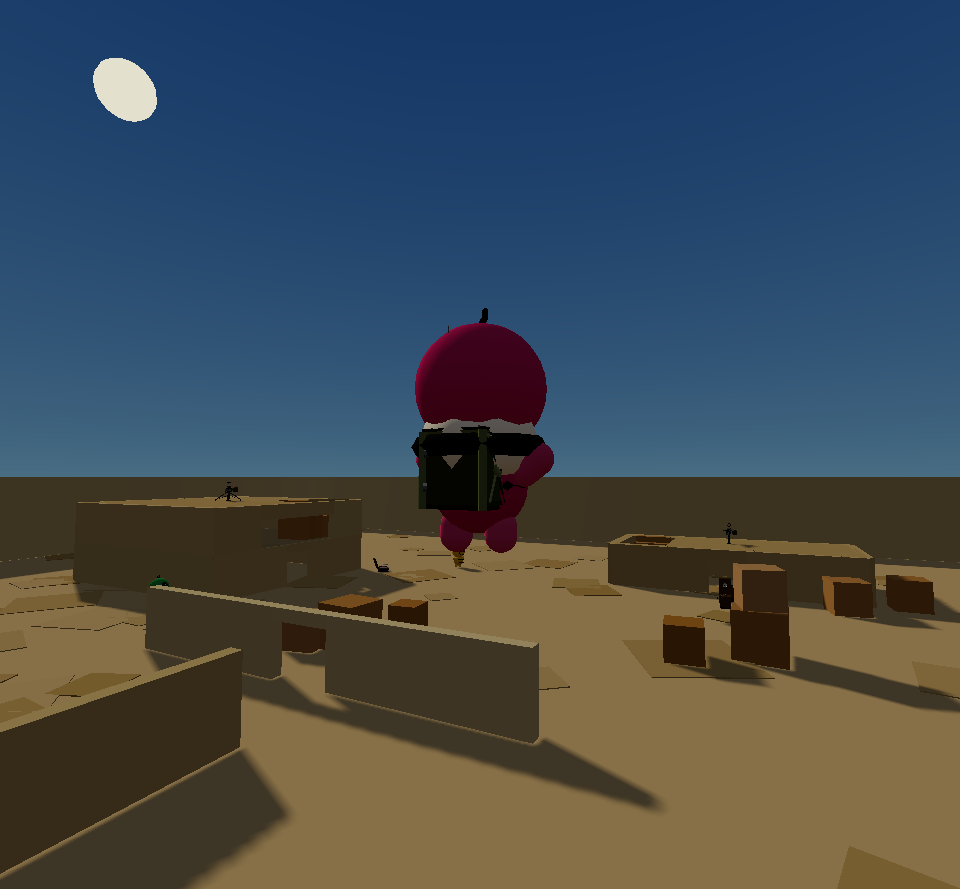
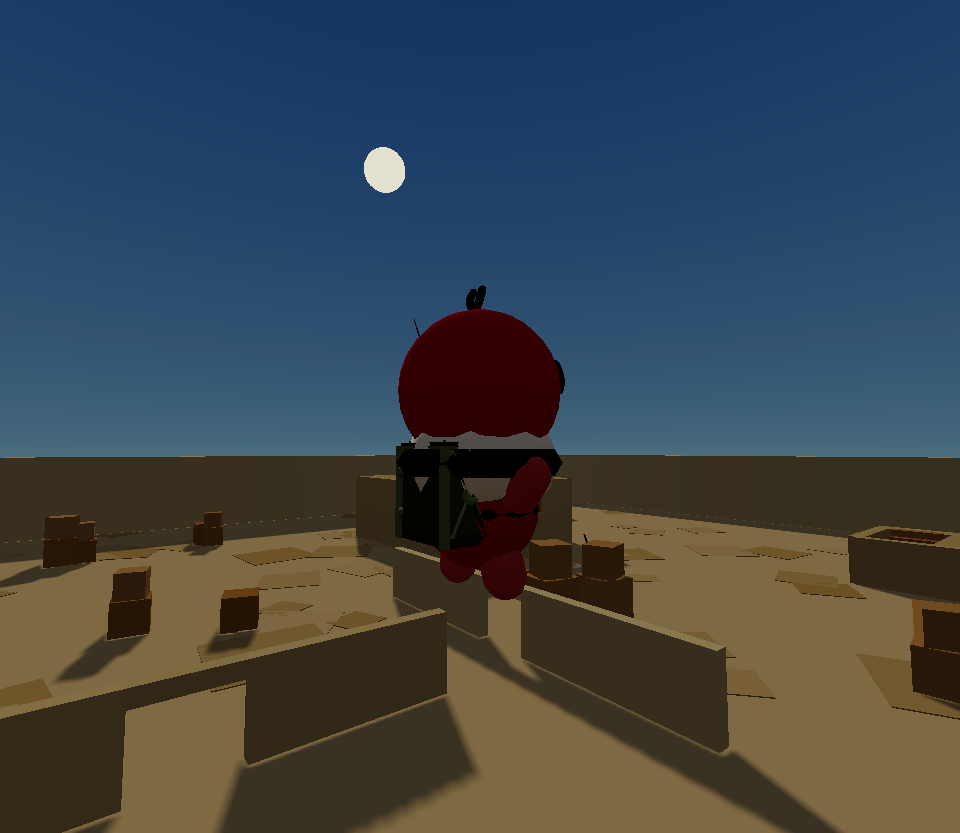
feat(r105d): bend the antenna into a natural whip curve (clears the head)
The straight AŠ-1,5 whip speared through the plush head. Curved the upper
antenna segments along a gentle arc (progressive at.x + rot z -3..-23°), base
flange/nut kept straight. At the courier's yaw=π/2 mount the +X arc leans the
whip backward off the head, so it reads as a flexible antenna instead of a
spike through the skull. Lint clean (58 parts); verified in-game from side +
3/4-back.

diff --git a/src/game.js b/src/game.js
@@ -78,7 +78,7 @@ _registerModels();
 // the build the browser actually loaded. GAME_BUILD is the release time (local, to the minute) —
 // bump it together with index.html's ?v= on every deploy.
 const GAME_VERSION = (() => { try { const m = String(import.meta.url).match(/[?&]v=(\d+)/); return m ? 'v' + m[1] : 'dev'; } catch (e) { return 'dev'; } })();
-const GAME_BUILD = '2026-07-01 00:43';
+const GAME_BUILD = '2026-07-01 00:56';
 
 const FIXED_STEP = 1 / 60;              // fixed-timestep sim tick (60 Hz) when this._fixedStep is ON
 const MAX_SUBSTEPS = 5;                 // spiral-of-death guard: cap sim sub-steps per render frame

diff --git a/models/r105d/BUILD.md b/models/r105d/BUILD.md
@@ -34,6 +34,7 @@ Wired onto the rare **backpack courier** engendro on branch `feat/courier-radio-
 - `src/game.js` `_registerModels()` → `await load('r105d')` (registered at boot alongside the other modelgen props).
 - `src/enemies.js` `makeCourier()` → builds `buildSpec(getSpec('r105d'))` into the enemy mesh's local space via a new `_buildCourierPack(real)` helper; the original procedural canvas pack stays as a fallback during the async-register window, and a pooled enemy that cached the fallback upgrades to the real model on reuse.
 - Mounted on the **back** with the **harness side (back-pad + webbing straps) sitting AGAINST the plush's back** and the radio **case facing out** (`R105D_YAW=π/2`) + telescopic antenna up — the real worn-pack look. Tunables `R105D_SCALE=2.0 / R105D_Y=0.42 / R105D_Z=-0.34 / R105D_YAW=π/2` (mesh-local; def.scale rides them). **The radio is SET INTO the round back** (z=-0.34) so it sits flush, not cantilevered. Owner-tuned over many rounds (the harness is on the model's -X side, the panel on +Z, so they're 90° apart — every yaw was eyeballed): z=-0.55 stuck out → embedded to -0.34; rotation cycled π → π/2 → π → 3π/2 and finally **π/2 so the straps press against the back and the case faces out** (owner: "straps belong against the back, it was 180° reversed"); dropped low on the body (Y 0.85→0.42). No emissive body-glow (removed — read as a night green-light bug). Verified from behind against a clean backdrop. ⚠ Screenshot-only gotcha: a courier lifted far from the player is draw-distance **culled** (`mesh.visible=false`) — force-show it to render; in-game it's near the player so it's never culled.
+- **Bent antenna:** the AŠ-1,5 whip (antSeg1–4 + collars + tip in `spec.json`) is curved along a gentle arc toward the model's +X (progressive `at.x` offset + `rot:[0,0,-3…-23]°`), keeping the brass base flange/nut straight. At the courier's `YAW=π/2` mount that +X arc maps to mob **−Z = leaning backward off the head**, so the whip no longer spears through the plush skull (owner: "bend it naturally so it's not stuck in the head"). The arc is authored in MODEL space for this specific yaw — if the mount yaw changes, recheck the lean direction.
 - **Courier is NORMAL-size only:** `makeCourier` early-returns unless `e.type === 'grunt'` (scale 1.0), and `waves.js` only rolls the ~1% courier chance on grunt spawns — so the radio never lands on the small (swarmer/runner/minitolo) or big (brute/titan) variants, nor the explode types (charger/exploder); the pack always sits at the size it's tuned for.
 - `src/admin.js` Asset Viewer entry added for inspection.
 - **In-game verified (Mac/Chrome):** spawned a courier (`enemies.spawn('grunt') → makeCourier`), confirmed the radio reads on the back from behind/side/front with the antenna above the head; 0 console errors; source-built (not live-tuned) placement confirmed after a clean module reload. See `renders/ingame-courier-back.png`.
